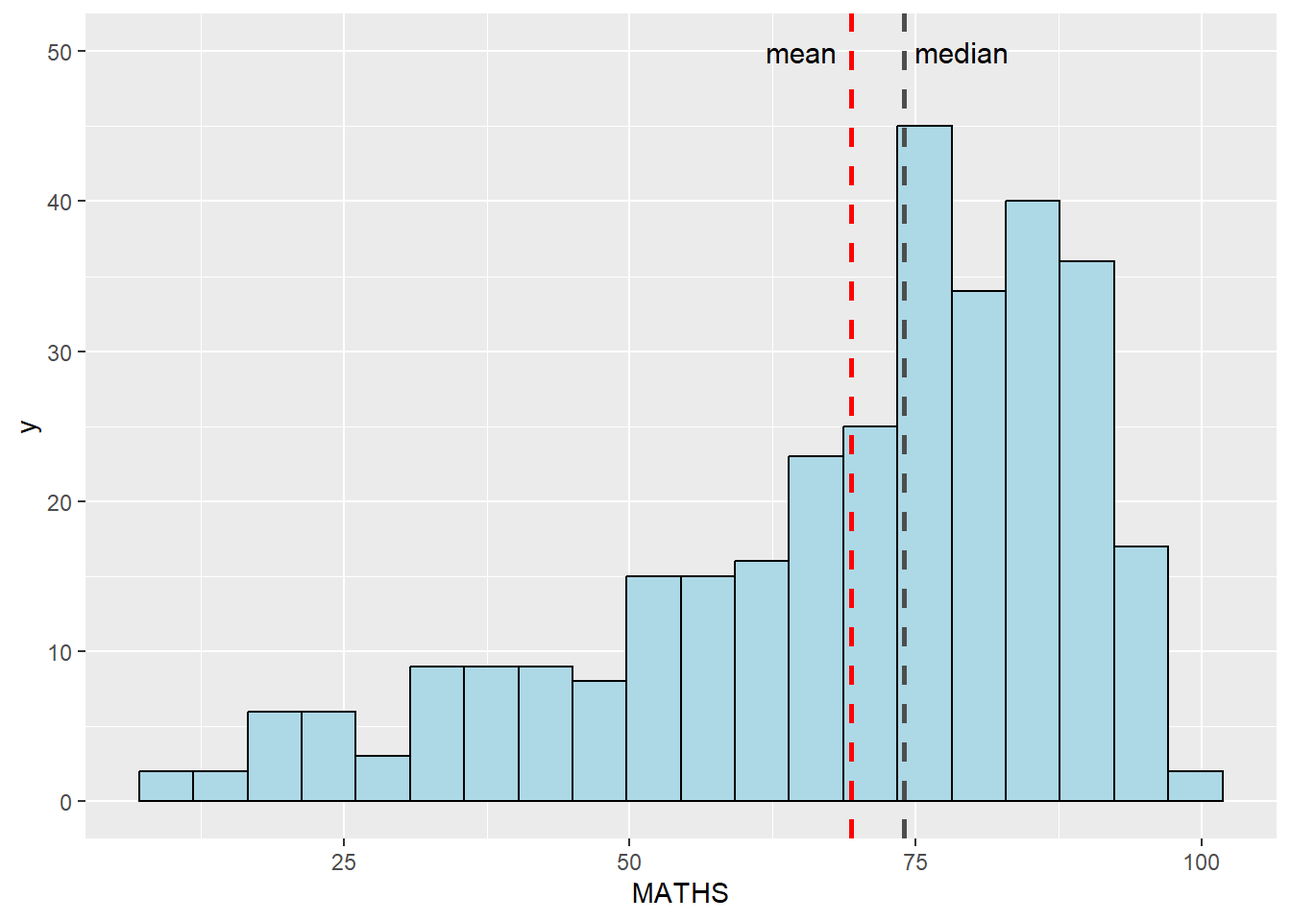
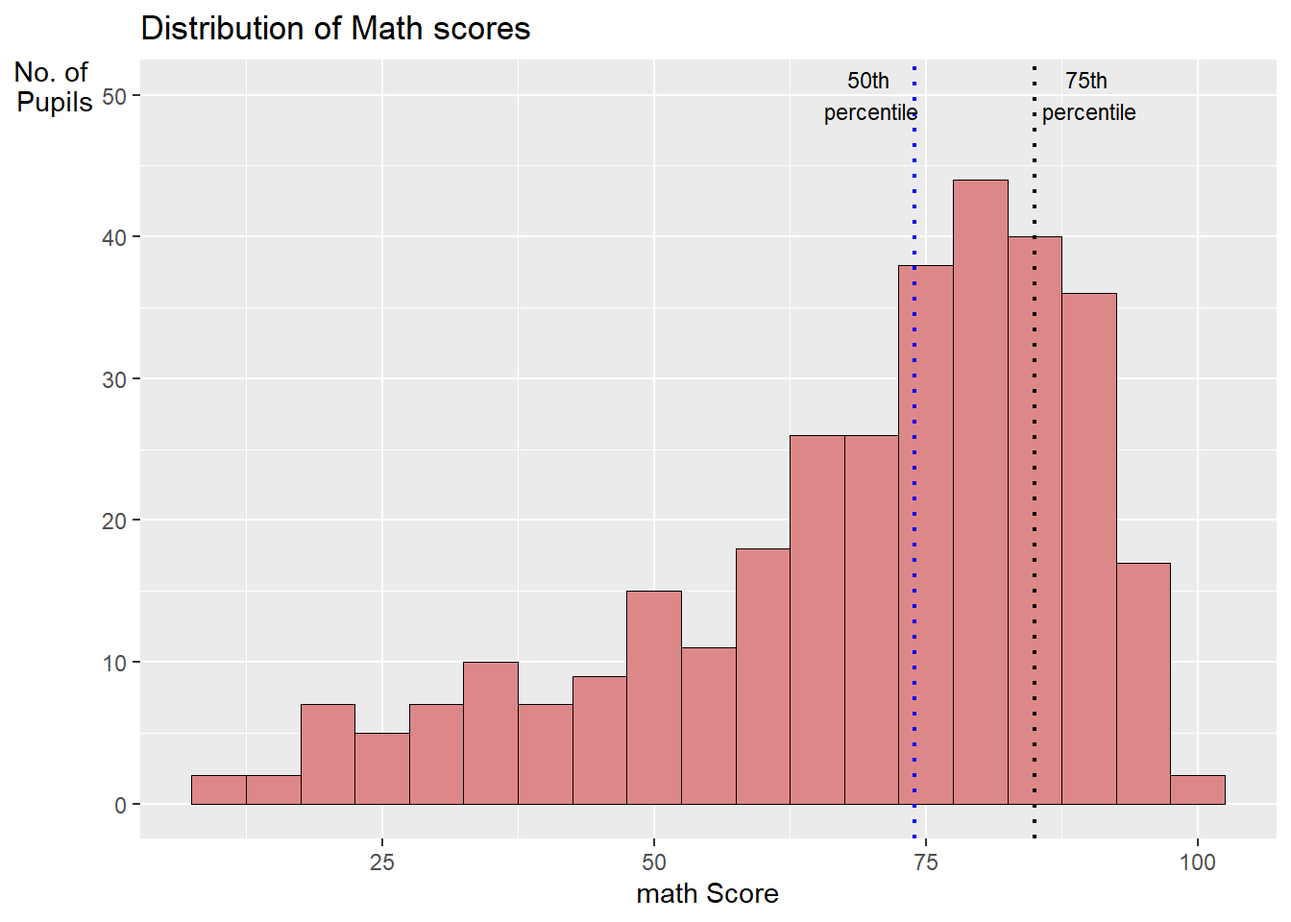
Task 3 completed and formatting done

diff --git a/_site/In-class_Ex/In-class_Ex01/In-class_Ex01.html b/_site/In-class_Ex/In-class_Ex01/In-class_Ex01.html
@@ -205,7 +205,8 @@ code span.wa { color: #60a0b0; font-weight: bold; font-style: italic; } /* Warni
   <ul class="collapse">
   <li><a href="#task-1-plotting-a-bar-chart" id="toc-task-1-plotting-a-bar-chart" class="nav-link" data-scroll-target="#task-1-plotting-a-bar-chart">Task 1: Plotting a bar chart</a></li>
   <li><a href="#task-2-improve-the-data-visualisation-of-an-existing-simple-vertical-bar-chart" id="toc-task-2-improve-the-data-visualisation-of-an-existing-simple-vertical-bar-chart" class="nav-link" data-scroll-target="#task-2-improve-the-data-visualisation-of-an-existing-simple-vertical-bar-chart">Task 2: Improve the data visualisation of an existing simple vertical bar chart</a></li>
-  <li><a href="#task-3-redesign-the-data-viz-of-a-histogram" id="toc-task-3-redesign-the-data-viz-of-a-histogram" class="nav-link" data-scroll-target="#task-3-redesign-the-data-viz-of-a-histogram">Task 3: Redesign the data viz of a histogram</a></li>
+  <li><a href="#task-3-improve-the-data-viz-of-an-existing-histogram" id="toc-task-3-improve-the-data-viz-of-an-existing-histogram" class="nav-link" data-scroll-target="#task-3-improve-the-data-viz-of-an-existing-histogram">Task 3: Improve the data viz of an existing histogram</a></li>
+  <li><a href="#task-4-improve-the-data-viz-of-exisiting-distribution-of-english-scores-by-gender." id="toc-task-4-improve-the-data-viz-of-exisiting-distribution-of-english-scores-by-gender." class="nav-link" data-scroll-target="#task-4-improve-the-data-viz-of-exisiting-distribution-of-english-scores-by-gender.">Task 4: Improve the data viz of exisiting distribution of English scores by gender.</a></li>
   </ul></li>
   </ul>
 </nav>
@@ -296,14 +297,14 @@ code span.wa { color: #60a0b0; font-weight: bold; font-style: italic; } /* Warni
 <p><img src="In-class_Ex01_files/figure-html/unnamed-chunk-5-1.png" class="img-fluid" width="672"></p>
 </div>
 </div>
-<p><strong>The design below is an improvised version with the following features:</strong></p>
+<p><strong>The designs below are improvised versions with the following features:</strong></p>
 <ol type="1">
 <li><p>Both axes labelled clearly.</p></li>
 <li><p>Bars are sorted by - count (descending order).</p></li>
 <li><p>Count and percentage are labelled above the bars.</p></li>
 </ol>
 <div class="panel-tabset">
-<ul class="nav nav-tabs" role="tablist"><li class="nav-item" role="presentation"><a class="nav-link active" id="tabset-2-1-tab" data-bs-toggle="tab" data-bs-target="#tabset-2-1" role="tab" aria-controls="tabset-2-1" aria-selected="true">The makeover design</a></li><li class="nav-item" role="presentation"><a class="nav-link" id="tabset-2-2-tab" data-bs-toggle="tab" data-bs-target="#tabset-2-2" role="tab" aria-controls="tabset-2-2" aria-selected="false">The code chunk (NYX)</a></li><li class="nav-item" role="presentation"><a class="nav-link" id="tabset-2-3-tab" data-bs-toggle="tab" data-bs-target="#tabset-2-3" role="tab" aria-controls="tabset-2-3" aria-selected="false">The code chunk (Prof Kam)</a></li><li class="nav-item" role="presentation"><a class="nav-link" id="tabset-2-4-tab" data-bs-toggle="tab" data-bs-target="#tabset-2-4" role="tab" aria-controls="tabset-2-4" aria-selected="false">Understanding Reorder()</a></li><li class="nav-item" role="presentation"><a class="nav-link" id="tabset-2-5-tab" data-bs-toggle="tab" data-bs-target="#tabset-2-5" role="tab" aria-controls="tabset-2-5" aria-selected="false">Forcats package</a></li><li class="nav-item" role="presentation"><a class="nav-link" id="tabset-2-6-tab" data-bs-toggle="tab" data-bs-target="#tabset-2-6" role="tab" aria-controls="tabset-2-6" aria-selected="false">Understanding fct_infreq</a></li><li class="nav-item" role="presentation"><a class="nav-link" id="tabset-2-7-tab" data-bs-toggle="tab" data-bs-target="#tabset-2-7" role="tab" aria-controls="tabset-2-7" aria-selected="false">Another boxplot example</a></li></ul>
+<ul class="nav nav-tabs" role="tablist"><li class="nav-item" role="presentation"><a class="nav-link active" id="tabset-2-1-tab" data-bs-toggle="tab" data-bs-target="#tabset-2-1" role="tab" aria-controls="tabset-2-1" aria-selected="true">Makeover 1 (NYX)</a></li><li class="nav-item" role="presentation"><a class="nav-link" id="tabset-2-2-tab" data-bs-toggle="tab" data-bs-target="#tabset-2-2" role="tab" aria-controls="tabset-2-2" aria-selected="false">Makeover 1 code chunk</a></li></ul>
 <div class="tab-content">
 <div id="tabset-2-1" class="tab-pane active" role="tabpanel" aria-labelledby="tabset-2-1-tab">
 <div class="cell">
@@ -356,13 +357,30 @@ Levels: Chinese Malay Indian Others</code></pre>
 <span id="cb9-11"><a href="#cb9-11" aria-hidden="true" tabindex="-1"></a>  <span class="fu">theme</span>(<span class="at">plot.title =</span> <span class="fu">element_text</span>(<span class="at">face=</span><span class="st">'bold'</span>, <span class="at">hjust =</span> <span class="fl">0.5</span>),   <span class="co">#bold title and center-justify</span></span>
 <span id="cb9-12"><a href="#cb9-12" aria-hidden="true" tabindex="-1"></a>        <span class="at">axis.title.y=</span><span class="fu">element_text</span>(<span class="at">angle=</span><span class="dv">0</span>)) </span></code><button title="Copy to Clipboard" class="code-copy-button"><i class="bi"></i></button></pre></div>
 </div>
-<p><u>Meaning of the argument ‘identity’ in the ‘stat’ parameter:</u></p>
+<p><em>Meaning of the argument ‘identity’ in the ‘stat’ parameter:</em></p>
 <p>If we provide the argument stat=“identity” to geom_bar() then we’re telling R to calculate the sum of the y variable, grouped by the x variable and use bars to display the sums</p>
-<p>There are three arguments in the reorder() function. (1) categorical variable to be sorted (2) variable to sort (1) by (3) a function that returns numerical value on how to sort (1) by</p>
+<p>There are three arguments in the reorder() function.</p>
+<ol type="1">
+<li><p>categorical variable to be sorted</p></li>
+<li><p>variable to sort (1) by</p></li>
+<li><p>a function that returns numerical value on how to sort (1) by</p></li>
+</ol>
 <p>References:</p>
 <p>https://www.roelpeters.be/reorder-ggplot2-bar-chart-by-count/ http://www.sthda.com/english/wiki/ggplot2-barplots-quick-start-guide-r-software-and-data-visualization#bar-plot-with-labels</p>
 </div>
-<div id="tabset-2-3" class="tab-pane" role="tabpanel" aria-labelledby="tabset-2-3-tab">
+</div>
+</div>
+<div class="panel-tabset">
+<ul class="nav nav-tabs" role="tablist"><li class="nav-item" role="presentation"><a class="nav-link active" id="tabset-3-1-tab" data-bs-toggle="tab" data-bs-target="#tabset-3-1" role="tab" aria-controls="tabset-3-1" aria-selected="true">Makeover 2 (Prof Kam)</a></li><li class="nav-item" role="presentation"><a class="nav-link" id="tabset-3-2-tab" data-bs-toggle="tab" data-bs-target="#tabset-3-2" role="tab" aria-controls="tabset-3-2" aria-selected="false">Makeover 2 code chunk</a></li><li class="nav-item" role="presentation"><a class="nav-link" id="tabset-3-3-tab" data-bs-toggle="tab" data-bs-target="#tabset-3-3" role="tab" aria-controls="tabset-3-3" aria-selected="false">Understanding Reorder()</a></li></ul>
+<div class="tab-content">
+<div id="tabset-3-1" class="tab-pane active" role="tabpanel" aria-labelledby="tabset-3-1-tab">
+<div class="cell">
+<div class="cell-output-display">
+<p><img src="In-class_Ex01_files/figure-html/unnamed-chunk-10-1.png" class="img-fluid" width="672"></p>
+</div>
+</div>
+</div>
+<div id="tabset-3-2" class="tab-pane" role="tabpanel" aria-labelledby="tabset-3-2-tab">
 <div class="cell">
 <div class="sourceCode cell-code" id="cb10"><pre class="sourceCode r code-with-copy"><code class="sourceCode r"><span id="cb10-1"><a href="#cb10-1" aria-hidden="true" tabindex="-1"></a><span class="fu">ggplot</span>(<span class="at">data=</span>exam_data, </span>
 <span id="cb10-2"><a href="#cb10-2" aria-hidden="true" tabindex="-1"></a>       <span class="fu">aes</span>(<span class="at">x=</span><span class="fu">reorder</span>(RACE,RACE,</span>
@@ -376,12 +394,9 @@ Levels: Chinese Malay Indian Others</code></pre>
 <span id="cb10-10"><a href="#cb10-10" aria-hidden="true" tabindex="-1"></a>  <span class="fu">xlab</span>(<span class="st">"Race"</span>) <span class="sc">+</span></span>
 <span id="cb10-11"><a href="#cb10-11" aria-hidden="true" tabindex="-1"></a>  <span class="fu">ylab</span>(<span class="st">"No. of</span><span class="sc">\n</span><span class="st">Pupils"</span>) <span class="sc">+</span></span>
 <span id="cb10-12"><a href="#cb10-12" aria-hidden="true" tabindex="-1"></a>  <span class="fu">theme</span>(<span class="at">axis.title.y=</span><span class="fu">element_text</span>(<span class="at">angle =</span> <span class="dv">0</span>))</span></code><button title="Copy to Clipboard" class="code-copy-button"><i class="bi"></i></button></pre></div>
-<div class="cell-output-display">
-<p><img src="In-class_Ex01_files/figure-html/unnamed-chunk-10-1.png" class="img-fluid" width="672"></p>
 </div>
 </div>
-</div>
-<div id="tabset-2-4" class="tab-pane" role="tabpanel" aria-labelledby="tabset-2-4-tab">
+<div id="tabset-3-3" class="tab-pane" role="tabpanel" aria-labelledby="tabset-3-3-tab">
 <pre><code>Output of the code below is C,M,I,O</code></pre>
 <div class="cell">
 <div class="sourceCode cell-code" id="cb12"><pre class="sourceCode r code-with-copy"><code class="sourceCode r"><span id="cb12-1"><a href="#cb12-1" aria-hidden="true" tabindex="-1"></a><span class="fu">reorder</span>(exam_data<span class="sc">$</span>RACE,exam_data<span class="sc">$</span>RACE,<span class="cf">function</span>(x)<span class="sc">-</span><span class="fu">length</span>(x))</span></code><button title="Copy to Clipboard" class="code-copy-button"><i class="bi"></i></button></pre></div>
@@ -429,7 +444,19 @@ Levels: Chinese Malay Indian Others</code></pre>
 </div>
 </div>
 </div>
-<div id="tabset-2-5" class="tab-pane" role="tabpanel" aria-labelledby="tabset-2-5-tab">
+</div>
+</div>
+<div class="panel-tabset">
+<ul class="nav nav-tabs" role="tablist"><li class="nav-item" role="presentation"><a class="nav-link active" id="tabset-4-1-tab" data-bs-toggle="tab" data-bs-target="#tabset-4-1" role="tab" aria-controls="tabset-4-1" aria-selected="true">Makeover 3 (Forcats package)</a></li><li class="nav-item" role="presentation"><a class="nav-link" id="tabset-4-2-tab" data-bs-toggle="tab" data-bs-target="#tabset-4-2" role="tab" aria-controls="tabset-4-2" aria-selected="false">Makeover 3 code chunk</a></li><li class="nav-item" role="presentation"><a class="nav-link" id="tabset-4-3-tab" data-bs-toggle="tab" data-bs-target="#tabset-4-3" role="tab" aria-controls="tabset-4-3" aria-selected="false">Understanding fct_infreq</a></li></ul>
+<div class="tab-content">
+<div id="tabset-4-1" class="tab-pane active" role="tabpanel" aria-labelledby="tabset-4-1-tab">
+<div class="cell">
+<div class="cell-output-display">
+<p><img src="In-class_Ex01_files/figure-html/unnamed-chunk-13-1.png" class="img-fluid" width="672"></p>
+</div>
+</div>
+</div>
+<div id="tabset-4-2" class="tab-pane" role="tabpanel" aria-labelledby="tabset-4-2-tab">
 <div class="cell">
 <div class="sourceCode cell-code" id="cb14"><pre class="sourceCode r code-with-copy"><code class="sourceCode r"><span id="cb14-1"><a href="#cb14-1" aria-hidden="true" tabindex="-1"></a>exam_data <span class="sc">%&gt;%</span></span>
 <span id="cb14-2"><a href="#cb14-2" aria-hidden="true" tabindex="-1"></a>  <span class="fu">mutate</span>(<span class="at">RACE =</span> <span class="fu">fct_infreq</span>(RACE)) <span class="sc">%&gt;%</span></span>
@@ -444,12 +471,9 @@ Levels: Chinese Malay Indian Others</code></pre>
 <span id="cb14-11"><a href="#cb14-11" aria-hidden="true" tabindex="-1"></a>  <span class="fu">xlab</span>(<span class="st">"Race"</span>) <span class="sc">+</span></span>
 <span id="cb14-12"><a href="#cb14-12" aria-hidden="true" tabindex="-1"></a>  <span class="fu">ylab</span>(<span class="st">"No. of</span><span class="sc">\n</span><span class="st">Pupils"</span>) <span class="sc">+</span></span>
 <span id="cb14-13"><a href="#cb14-13" aria-hidden="true" tabindex="-1"></a>  <span class="fu">theme</span>(<span class="at">axis.title.y=</span><span class="fu">element_text</span>(<span class="at">angle =</span> <span class="dv">0</span>))</span></code><button title="Copy to Clipboard" class="code-copy-button"><i class="bi"></i></button></pre></div>
-<div class="cell-output-display">
-<p><img src="In-class_Ex01_files/figure-html/unnamed-chunk-12-1.png" class="img-fluid" width="672"></p>
 </div>
 </div>
-</div>
-<div id="tabset-2-6" class="tab-pane" role="tabpanel" aria-labelledby="tabset-2-6-tab">
+<div id="tabset-4-3" class="tab-pane" role="tabpanel" aria-labelledby="tabset-4-3-tab">
 <pre><code>Output of the code below is also C,M,I,O</code></pre>
 <div class="cell">
 <div class="sourceCode cell-code" id="cb16"><pre class="sourceCode r code-with-copy"><code class="sourceCode r"><span id="cb16-1"><a href="#cb16-1" aria-hidden="true" tabindex="-1"></a><span class="fu">fct_infreq</span>(exam_data<span class="sc">$</span>RACE)</span></code><button title="Copy to Clipboard" class="code-copy-button"><i class="bi"></i></button></pre></div>
@@ -494,8 +518,12 @@ Levels: Chinese Malay Indian Others</code></pre>
 </div>
 </div>
 </div>
-<div id="tabset-2-7" class="tab-pane" role="tabpanel" aria-labelledby="tabset-2-7-tab">
-<p>This is the only example not plotting the count but based on another variable ‘MATHS’. is this the reason why we do not need to input any argument in geom_bar()?</p>
+</div>
+</div>
+<section id="another-boxplot-example" class="level4">
+<h4 class="anchored" data-anchor-id="another-boxplot-example">Another boxplot example</h4>
+<p>This is the only example of not plotting the count but based on another variable ‘MATHS’. It is also sorted in descending order of median of MATH score by RACE.</p>
+<p>Is this the reason why we do not need to input any argument in geom_bar()?</p>
 <div class="cell">
 <div class="sourceCode cell-code" id="cb18"><pre class="sourceCode r code-with-copy"><code class="sourceCode r"><span id="cb18-1"><a href="#cb18-1" aria-hidden="true" tabindex="-1"></a><span class="fu">ggplot</span>(<span class="at">data =</span> exam_data, <span class="fu">aes</span>(<span class="at">x =</span> <span class="fu">reorder</span>(RACE, <span class="sc">-</span>MATHS, median), <span class="at">y =</span> MATHS)) <span class="sc">+</span></span>
 <span id="cb18-2"><a href="#cb18-2" aria-hidden="true" tabindex="-1"></a>  <span class="fu">geom_boxplot</span>() <span class="sc">+</span></span>
@@ -504,7 +532,7 @@ Levels: Chinese Malay Indian Others</code></pre>
 <span id="cb18-5"><a href="#cb18-5" aria-hidden="true" tabindex="-1"></a>  <span class="fu">ggtitle</span>(<span class="st">"Math Scores by Race"</span>) <span class="sc">+</span></span>
 <span id="cb18-6"><a href="#cb18-6" aria-hidden="true" tabindex="-1"></a>  <span class="fu">theme</span>(<span class="at">plot.title =</span> <span class="fu">element_text</span>(<span class="at">hjust =</span> <span class="fl">0.5</span>))</span></code><button title="Copy to Clipboard" class="code-copy-button"><i class="bi"></i></button></pre></div>
 <div class="cell-output-display">
-<p><img src="In-class_Ex01_files/figure-html/unnamed-chunk-14-1.png" class="img-fluid" width="672"></p>
+<p><img src="In-class_Ex01_files/figure-html/unnamed-chunk-16-1.png" class="img-fluid" width="672"></p>
 </div>
 </div>
 <div class="cell">
@@ -552,12 +580,10 @@ Chinese  Indian   Malay  Others
 Levels: Chinese Others Malay Indian</code></pre>
 </div>
 </div>
-</div>
-</div>
-</div>
 </section>
-<section id="task-3-redesign-the-data-viz-of-a-histogram" class="level2">
-<h2 class="anchored" data-anchor-id="task-3-redesign-the-data-viz-of-a-histogram">Task 3: Redesign the data viz of a histogram</h2>
+</section>
+<section id="task-3-improve-the-data-viz-of-an-existing-histogram" class="level2">
+<h2 class="anchored" data-anchor-id="task-3-improve-the-data-viz-of-an-existing-histogram">Task 3: Improve the data viz of an existing histogram</h2>
 <p><strong>There are several flaws in the design below, namely:</strong></p>
 <ol type="1">
 <li><p>The outline of the bars is unclear</p></li>
@@ -572,7 +598,7 @@ Levels: Chinese Others Malay Indian</code></pre>
 <span id="cb21-3"><a href="#cb21-3" aria-hidden="true" tabindex="-1"></a>  <span class="fu">geom_histogram</span>(<span class="at">binwidth=</span><span class="dv">5</span>)</span></code><button title="Copy to Clipboard" class="code-copy-button"><i class="bi"></i></button></pre></div>
 </details>
 <div class="cell-output-display">
-<p><img src="In-class_Ex01_files/figure-html/unnamed-chunk-16-1.png" class="img-fluid" width="672"></p>
+<p><img src="In-class_Ex01_files/figure-html/unnamed-chunk-18-1.png" class="img-fluid" width="672"></p>
 </div>
 </div>
 <p><strong>The designs below are improvised version with the following features:</strong></p>
@@ -586,17 +612,17 @@ Levels: Chinese Others Malay Indian</code></pre>
 <li><p>Change fill color and line color</p></li>
 </ul>
 <div class="panel-tabset">
-<ul class="nav nav-tabs" role="tablist"><li class="nav-item" role="presentation"><a class="nav-link active" id="tabset-3-1-tab" data-bs-toggle="tab" data-bs-target="#tabset-3-1" role="tab" aria-controls="tabset-3-1" aria-selected="true">Makeover design 1 (NYX)</a></li><li class="nav-item" role="presentation"><a class="nav-link" id="tabset-3-2-tab" data-bs-toggle="tab" data-bs-target="#tabset-3-2" role="tab" aria-controls="tabset-3-2" aria-selected="false">Makeover 1 code chunk (NYX)</a></li><li class="nav-item" role="presentation"><a class="nav-link" id="tabset-3-3-tab" data-bs-toggle="tab" data-bs-target="#tabset-3-3" role="tab" aria-controls="tabset-3-3" aria-selected="false">Makeover Design 2 (Prof Kam)</a></li><li class="nav-item" role="presentation"><a class="nav-link" id="tabset-3-4-tab" data-bs-toggle="tab" data-bs-target="#tabset-3-4" role="tab" aria-controls="tabset-3-4" aria-selected="false">Makeover 2 code chunk (Prof Kam)</a></li></ul>
+<ul class="nav nav-tabs" role="tablist"><li class="nav-item" role="presentation"><a class="nav-link active" id="tabset-5-1-tab" data-bs-toggle="tab" data-bs-target="#tabset-5-1" role="tab" aria-controls="tabset-5-1" aria-selected="true">Makeover design 1 (NYX)</a></li><li class="nav-item" role="presentation"><a class="nav-link" id="tabset-5-2-tab" data-bs-toggle="tab" data-bs-target="#tabset-5-2" role="tab" aria-controls="tabset-5-2" aria-selected="false">Makeover 1 code chunk (NYX)</a></li></ul>
 <div class="tab-content">
-<div id="tabset-3-1" class="tab-pane active" role="tabpanel" aria-labelledby="tabset-3-1-tab">
+<div id="tabset-5-1" class="tab-pane active" role="tabpanel" aria-labelledby="tabset-5-1-tab">
 <div class="cell">
 <div class="cell-output-display">
-<p><img src="In-class_Ex01_files/figure-html/unnamed-chunk-17-1.png" class="img-fluid" width="672"></p>
+<p><img src="In-class_Ex01_files/figure-html/unnamed-chunk-19-1.png" class="img-fluid" width="672"></p>
 </div>
 </div>
 <p>Reference: <a href="https://community.rstudio.com/t/geom-histogram-labeling-25th-50th-75th-percentiles/148838/2">link</a></p>
 </div>
-<div id="tabset-3-2" class="tab-pane" role="tabpanel" aria-labelledby="tabset-3-2-tab">
+<div id="tabset-5-2" class="tab-pane" role="tabpanel" aria-labelledby="tabset-5-2-tab">
 <div class="cell">
 <div class="sourceCode cell-code" id="cb22"><pre class="sourceCode r code-with-copy"><code class="sourceCode r"><span id="cb22-1"><a href="#cb22-1" aria-hidden="true" tabindex="-1"></a>q <span class="ot">&lt;-</span> <span class="fu">quantile</span>(exam_data<span class="sc">$</span>MATHS, <span class="at">probs =</span> <span class="fu">c</span>(<span class="fl">0.25</span>, <span class="fl">0.5</span>, <span class="fl">0.75</span>))</span>
 <span id="cb22-2"><a href="#cb22-2" aria-hidden="true" tabindex="-1"></a></span>
@@ -612,14 +638,19 @@ Levels: Chinese Others Malay Indian</code></pre>
 <span id="cb22-12"><a href="#cb22-12" aria-hidden="true" tabindex="-1"></a>  <span class="fu">ggtitle</span>(<span class="st">'Distribution of Math scores'</span>)</span></code><button title="Copy to Clipboard" class="code-copy-button"><i class="bi"></i></button></pre></div>
 </div>
 </div>
-<div id="tabset-3-3" class="tab-pane" role="tabpanel" aria-labelledby="tabset-3-3-tab">
+</div>
+</div>
+<div class="panel-tabset">
+<ul class="nav nav-tabs" role="tablist"><li class="nav-item" role="presentation"><a class="nav-link active" id="tabset-6-1-tab" data-bs-toggle="tab" data-bs-target="#tabset-6-1" role="tab" aria-controls="tabset-6-1" aria-selected="true">Makeover Design 2 (Prof Kam)</a></li><li class="nav-item" role="presentation"><a class="nav-link" id="tabset-6-2-tab" data-bs-toggle="tab" data-bs-target="#tabset-6-2" role="tab" aria-controls="tabset-6-2" aria-selected="false">Makeover 2 code chunk (Prof Kam)</a></li></ul>
+<div class="tab-content">
+<div id="tabset-6-1" class="tab-pane active" role="tabpanel" aria-labelledby="tabset-6-1-tab">
 <div class="cell">
 <div class="cell-output-display">
-<p><img src="In-class_Ex01_files/figure-html/unnamed-chunk-19-1.png" class="img-fluid" width="672"></p>
+<p><img src="In-class_Ex01_files/figure-html/unnamed-chunk-21-1.png" class="img-fluid" width="672"></p>
 </div>
 </div>
 </div>
-<div id="tabset-3-4" class="tab-pane" role="tabpanel" aria-labelledby="tabset-3-4-tab">
+<div id="tabset-6-2" class="tab-pane" role="tabpanel" aria-labelledby="tabset-6-2-tab">
 <div class="cell">
 <div class="sourceCode cell-code" id="cb23"><pre class="sourceCode r code-with-copy"><code class="sourceCode r"><span id="cb23-1"><a href="#cb23-1" aria-hidden="true" tabindex="-1"></a><span class="fu">ggplot</span>(<span class="at">data=</span>exam_data, </span>
 <span id="cb23-2"><a href="#cb23-2" aria-hidden="true" tabindex="-1"></a>       <span class="fu">aes</span>(<span class="at">x=</span> MATHS)) <span class="sc">+</span></span>
@@ -637,6 +668,49 @@ Levels: Chinese Others Malay Indian</code></pre>
 <span id="cb23-14"><a href="#cb23-14" aria-hidden="true" tabindex="-1"></a>             <span class="at">size =</span> <span class="dv">1</span>) <span class="sc">+</span></span>
 <span id="cb23-15"><a href="#cb23-15" aria-hidden="true" tabindex="-1"></a>  <span class="fu">annotate</span>(<span class="st">"text"</span>, <span class="at">x=</span><span class="dv">79</span>, <span class="at">y=</span><span class="dv">50</span>, <span class="at">label=</span><span class="st">"median"</span>, <span class="at">angle=</span><span class="dv">0</span>, <span class="at">size =</span> <span class="dv">4</span>)</span></code><button title="Copy to Clipboard" class="code-copy-button"><i class="bi"></i></button></pre></div>
 </div>
+</div>
+</div>
+</div>
+</section>
+<section id="task-4-improve-the-data-viz-of-exisiting-distribution-of-english-scores-by-gender." class="level2">
+<h2 class="anchored" data-anchor-id="task-4-improve-the-data-viz-of-exisiting-distribution-of-english-scores-by-gender.">Task 4: Improve the data viz of exisiting distribution of English scores by gender.</h2>
+<p>The viz below shows the distribution by gender. How can we make it more informative? Could we try to add a background layer of histogram that describe the overall distribution of ENGLISH scores?</p>
+<div class="cell">
+<details>
+<summary>Code</summary>
+<div class="sourceCode cell-code" id="cb24"><pre class="sourceCode r code-with-copy"><code class="sourceCode r"><span id="cb24-1"><a href="#cb24-1" aria-hidden="true" tabindex="-1"></a><span class="fu">ggplot</span>(<span class="at">data=</span>exam_data,</span>
+<span id="cb24-2"><a href="#cb24-2" aria-hidden="true" tabindex="-1"></a>       <span class="fu">aes</span>(<span class="at">x=</span>ENGLISH, <span class="at">fill=</span> GENDER)) <span class="sc">+</span></span>
+<span id="cb24-3"><a href="#cb24-3" aria-hidden="true" tabindex="-1"></a>  <span class="fu">geom_histogram</span>(<span class="at">bins=</span><span class="dv">20</span>) <span class="sc">+</span></span>
+<span id="cb24-4"><a href="#cb24-4" aria-hidden="true" tabindex="-1"></a>  <span class="fu">facet_wrap</span>(<span class="sc">~</span>GENDER)</span></code><button title="Copy to Clipboard" class="code-copy-button"><i class="bi"></i></button></pre></div>
+</details>
+<div class="cell-output-display">
+<p><img src="In-class_Ex01_files/figure-html/unnamed-chunk-23-1.png" class="img-fluid" width="672"></p>
+</div>
+</div>
+<p>The makeover designs below now include overall distribution in the backgrounds of the trellis plots by gender.</p>
+<div class="panel-tabset">
+<ul class="nav nav-tabs" role="tablist"><li class="nav-item" role="presentation"><a class="nav-link active" id="tabset-7-1-tab" data-bs-toggle="tab" data-bs-target="#tabset-7-1" role="tab" aria-controls="tabset-7-1" aria-selected="true">Makeover design 1</a></li><li class="nav-item" role="presentation"><a class="nav-link" id="tabset-7-2-tab" data-bs-toggle="tab" data-bs-target="#tabset-7-2" role="tab" aria-controls="tabset-7-2" aria-selected="false">Makeover 1 code chunk</a></li></ul>
+<div class="tab-content">
+<div id="tabset-7-1" class="tab-pane active" role="tabpanel" aria-labelledby="tabset-7-1-tab">
+<div class="cell">
+<div class="cell-output-display">
+<p><img src="In-class_Ex01_files/figure-html/unnamed-chunk-24-1.png" class="img-fluid" width="672"></p>
+</div>
+</div>
+</div>
+<div id="tabset-7-2" class="tab-pane" role="tabpanel" aria-labelledby="tabset-7-2-tab">
+<div class="cell">
+<div class="sourceCode cell-code" id="cb25"><pre class="sourceCode r code-with-copy"><code class="sourceCode r"><span id="cb25-1"><a href="#cb25-1" aria-hidden="true" tabindex="-1"></a>d_bg <span class="ot">&lt;-</span> exam_data[, <span class="sc">-</span><span class="dv">3</span>] <span class="co"># background data without GENDER column</span></span>
+<span id="cb25-2"><a href="#cb25-2" aria-hidden="true" tabindex="-1"></a><span class="fu">ggplot</span>(<span class="at">data=</span>exam_data,</span>
+<span id="cb25-3"><a href="#cb25-3" aria-hidden="true" tabindex="-1"></a>       <span class="fu">aes</span>(<span class="at">x=</span>ENGLISH, <span class="at">fill=</span>GENDER)) <span class="sc">+</span></span>
+<span id="cb25-4"><a href="#cb25-4" aria-hidden="true" tabindex="-1"></a>  <span class="fu">geom_histogram</span>(<span class="at">data=</span>d_bg, <span class="at">bins=</span><span class="dv">20</span>, <span class="at">fill=</span><span class="st">'grey'</span>,<span class="at">alpha=</span><span class="fl">0.5</span>) <span class="sc">+</span></span>
+<span id="cb25-5"><a href="#cb25-5" aria-hidden="true" tabindex="-1"></a>  <span class="fu">geom_histogram</span>(<span class="at">colour=</span><span class="st">'black'</span>) <span class="sc">+</span></span>
+<span id="cb25-6"><a href="#cb25-6" aria-hidden="true" tabindex="-1"></a>  <span class="fu">facet_wrap</span>(<span class="sc">~</span>GENDER) <span class="sc">+</span></span>
+<span id="cb25-7"><a href="#cb25-7" aria-hidden="true" tabindex="-1"></a>  <span class="fu">guides</span>(<span class="at">fill=</span><span class="cn">FALSE</span>) <span class="sc">+</span></span>
+<span id="cb25-8"><a href="#cb25-8" aria-hidden="true" tabindex="-1"></a>  <span class="fu">theme_minimal</span>()</span></code><button title="Copy to Clipboard" class="code-copy-button"><i class="bi"></i></button></pre></div>
+</div>
+<p>The geom_histogram() function is used twice to create two overlapping histograms. The first histogram is created using the d_bg dataset (no GENDER data, rep all GENDERs) and is filled with grey. This histogram represents the background distribution of ENGLISH marks across ALL GENDERs. The second histogram is created using the entire exam dataset and makes use of the fill = GENDER in ggplot() to color gender differently. This results in a legend and is removed with guides(fill=FALSE). It also has a black border. This histogram represents the distribution of ENGLISH scores for each individual GENDER. Finally, facet_wrap(~GENDER) will create panels to represent distribution for each GENDER for easy comparison.</p>
+<p>Reference: <a href="https://drsimonj.svbtle.com/plotting-background-data-for-groups-with-ggplot2">Plot background histogram data</a></p>
 </div>
 </div>
 </div>
